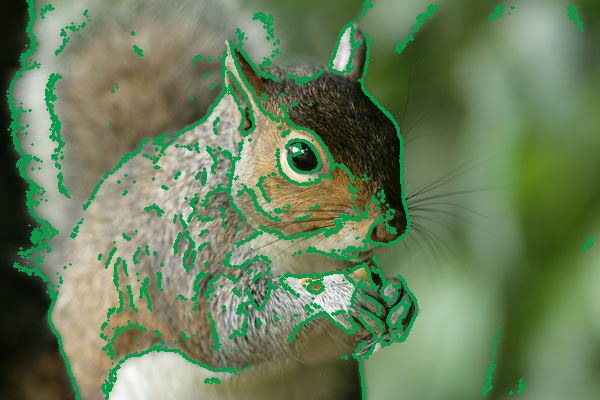
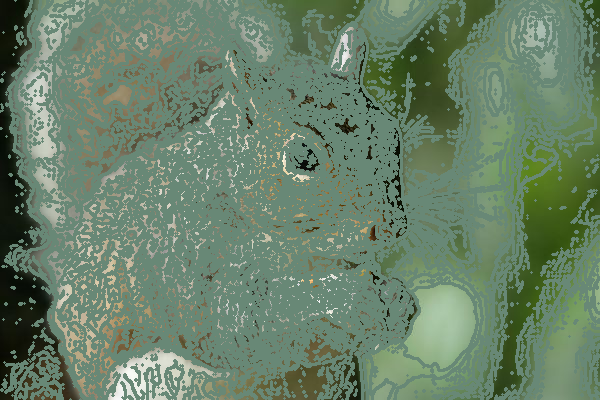
Rough implementation of Box Blur

diff --git a/Blur.py b/Blur.py
@@ -1,0 +1,44 @@
+import cv2
+import numpy as np
+from PIL import Image
+import PIL
+
+class Blur:
+    def __init__(self, img):
+        self.img = img
+        self.img_array = np.array(img, dtype=int)
+        self.height, self.width = self.img.shape[:2]
+        self.new_image = PIL.Image.new(mode="RGB", size=(self.width, self.height), 
+                                       color=(255, 255, 255))
+        self.new_image_array = np.array(self.new_image)
+        self.total_pixels = self.width * self.height
+    
+    def BoxBlur(self):
+        print(self.img_array)
+    
+        for i in range(self.height):
+            for k in range(self.width):
+                pixel_sum = (
+                    self.img_array[self.bound_i(i-1)][self.bound_k(k - 1)] + 
+                    self.img_array[self.bound_i(i)][self.bound_k(k-1)] +
+                    self.img_array[self.bound_i(i + 1)][self.bound_k(k - 1)] +
+                    self.img_array[self.bound_i(i - 1)][self.bound_k(k)] +
+                    self.img_array[self.bound_i(i)][self.bound_k(k)] +
+                    self.img_array[self.bound_i(i + 1)][self.bound_k(k)] +
+                    self.img_array[self.bound_i(i - 1)][self.bound_k(k + 1)] +
+                    self.img_array[self.bound_i(i)][self.bound_k(k + 1)] +
+                    self.img_array[self.bound_i(i + 1)][self.bound_k(k + 1)]
+                    )
+                self.new_image_array[i][k] = pixel_sum // 9
+
+        return self.new_image_array
+
+
+    def GaussianBlur(self):
+        pass
+
+    def bound_i(self, value):
+        return max(0, min(value, self.height - 1))
+
+    def bound_k(self, value):
+        return max(0, min(value, self.width - 1))

diff --git a/detector.py b/detector.py
@@ -1,11 +1,21 @@
 import cv2
 import random as rand
-
+from Blur import *
 img = cv2.imread("testImg.jpg", cv2.IMREAD_COLOR)
 
 gray = cv2.cvtColor(img, cv2.COLOR_BGR2GRAY)
 
-blur = cv2.GaussianBlur(gray, (23, 23), 0)
+# blur = cv2.GaussianBlur(gray, (23, 23), 0)
+Blur_Object = Blur(img)
+
+blur = Blur_Object.BoxBlur()
+
+cv2.imshow("Custom Blur", blur)
+
+cv2.waitKey(0)
+
+cv2.destroyAllWindows()
+
 
 color = (rand.randint(0,256), rand.randint(0,256), rand.randint(0,256))
 
